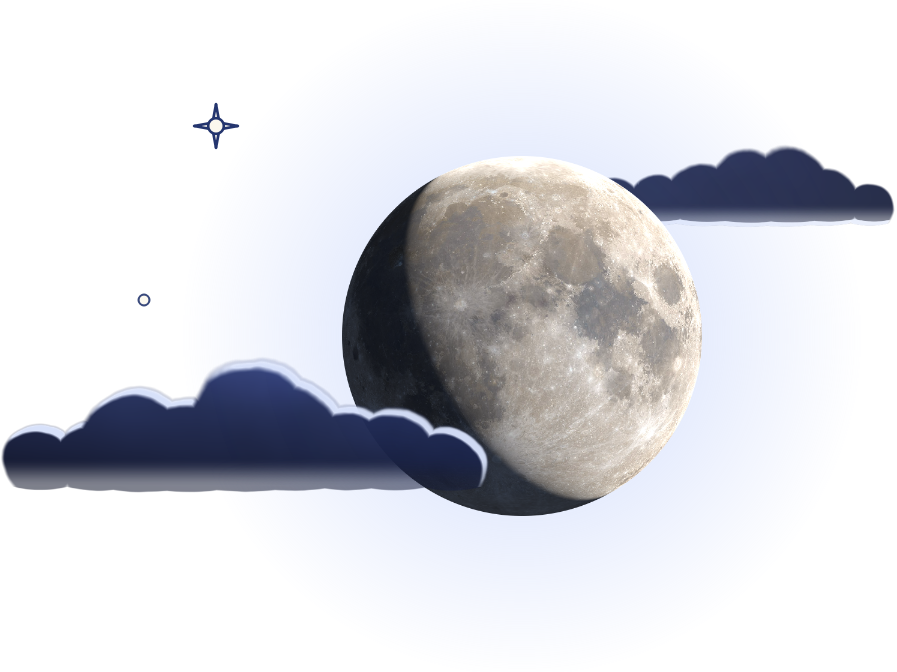
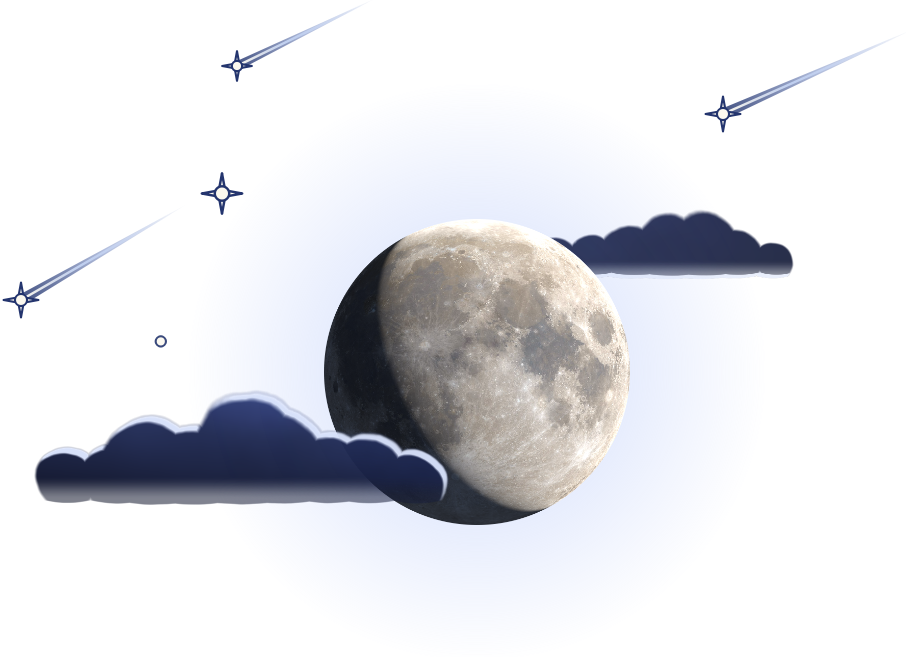
星夜蓝主题窗口点缀调整：右上角流星收拢到拐角附近，两道斜切进窗口、星头落在页签行右端空白处不压按钮；左上角月亮与夜云、亮星缩小一些，月亮周围加三道小流星

diff --git a/dstools/qt/ornaments.py b/dstools/qt/ornaments.py
@@ -94,10 +94,11 @@ _SPRITES: dict[str, tuple[Sprite, ...]] = {
         # 越远越淡，光带里撒满小星，北斗七星、仙后座（按真实星位）叠在上面；都在外框线外侧
         Sprite("twilight_spray_right.png", 0, 0, 396, -42, 84),
         Sprite("twilight_spray_down.png", 0, 0, -40, 318.5, 533),
-        # 左上主角：一轮真实月面（NASA 月面贴图渲染）的盈凸月带月晕，前后两团月光镶边的夜云；压住标题开头
-        Sprite("twilight_cluster.png", 0, 0, -18.5, -8, 224),
-        # 右上呼应：一场流星雨从右上斜划下来、星头停在外框线以上，沿右边框外侧一道短光带；都不挡标题栏按钮
-        Sprite("twilight_spray_corner.png", 1, 0, -139, 119.5, 461),
+        # 左上主角：一轮真实月面（NASA 月面贴图渲染）的盈凸月带月晕，前后两团月光镶边的夜云，
+        # 周围几道小流星；压住标题开头
+        Sprite("twilight_cluster.png", 0, 0, -6, -24.5, 219),
+        # 右上呼应：几道流星收在拐角附近、两道斜切进窗口落在按钮下方，沿右边框外侧一道短光带；不挡标题栏按钮
+        Sprite("twilight_spray_corner.png", 1, 0, -31.5, 136, 428),
         # 右下角：松林跨在拐角上，帐篷搭在林前、门里透出暖光，萤火虫在林边飞散；左下角留白
         Sprite("twilight_bottom.png", 1, 1, -145.5, -145, 302),
     ),
